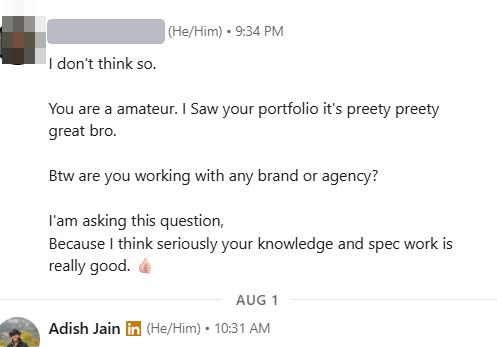
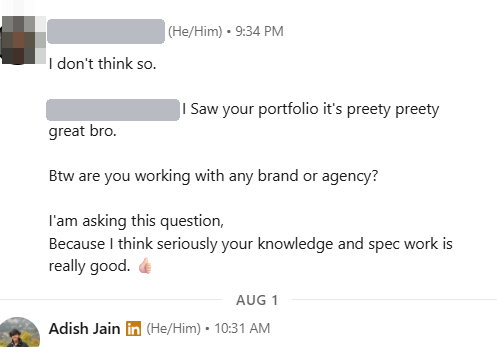
Bar the inverted sentence, add one more reaction
One DM read "You are a amateur." The sender meant the opposite and dropped
the not, so as it stood the wall carried an insult nobody sent. The
sentence is now covered. Boundary measured off a word profile rather than
eyeballed: it runs x49-176 and "I Saw" begins at 183, so the bar stops at
179 and the praise after it is untouched.

Adds a seventh direct message, same treatment as the rest.

Changed region(s): [[0.0905, 0.2882, 0.3622, 0.3458]]

diff --git a/components/screen-1/Reception.tsx b/components/screen-1/Reception.tsx
@@ -63,6 +63,12 @@ const SHOTS: Shot[] = [
     alt: "Direct message, sender's name covered: I saw your portfolio, it is pretty great. Are you working with any brand or agency? I think seriously your knowledge and spec work is really good.",
   },
   {
+    src: "/proof/message-07.png",
+    w: 515,
+    h: 120,
+    alt: "Direct message, sender's name covered: I just wanted to tell you that your portfolio is incredible. Could you tell please how to create like yours.",
+  },
+  {
     src: "/proof/message-03.png",
     w: 522,
     h: 253,
